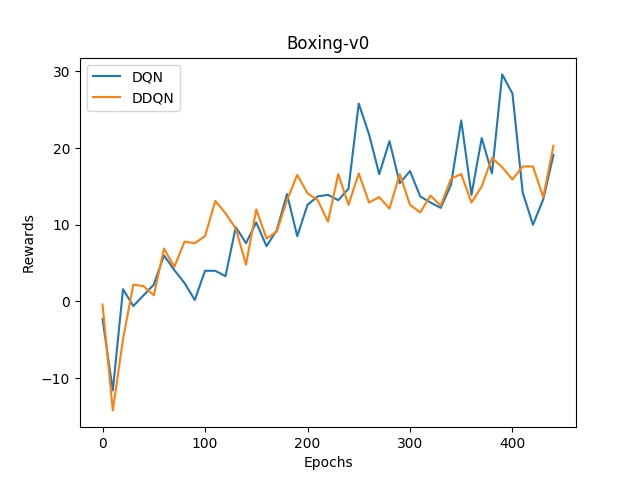
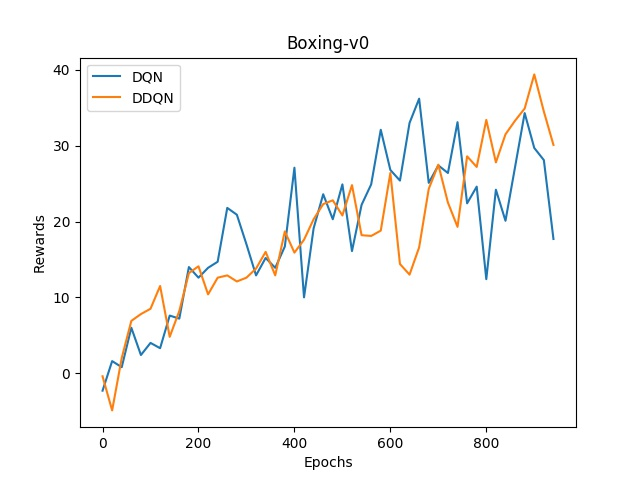
fk

diff --git a/p3_dqn.py b/p3_dqn.py
@@ -27,9 +27,9 @@ for name in ['dqn_gamma_boxing_0.99.log', 'dqn_gamma_DDQN_boxing_0.99.log']:
             if i > 0:
                 rewards[i] = np.clip(rewards[i], rewards[i - 1] - 8, rewards[i - 1] + 8)
         '''
-        plt.plot(epochs[:45:1], rewards[:45:1], label='DDQN')
+        plt.plot(epochs[:95:2], rewards[:95:2], label='DDQN')
     else:
-        plt.plot(epochs[:45:1], rewards[:45:1], label='DQN')
+        plt.plot(epochs[:95:2], rewards[:95:2], label='DQN')
 plt.legend()
 plt.title('Boxing-v0')
 plt.xlabel('Epochs')
